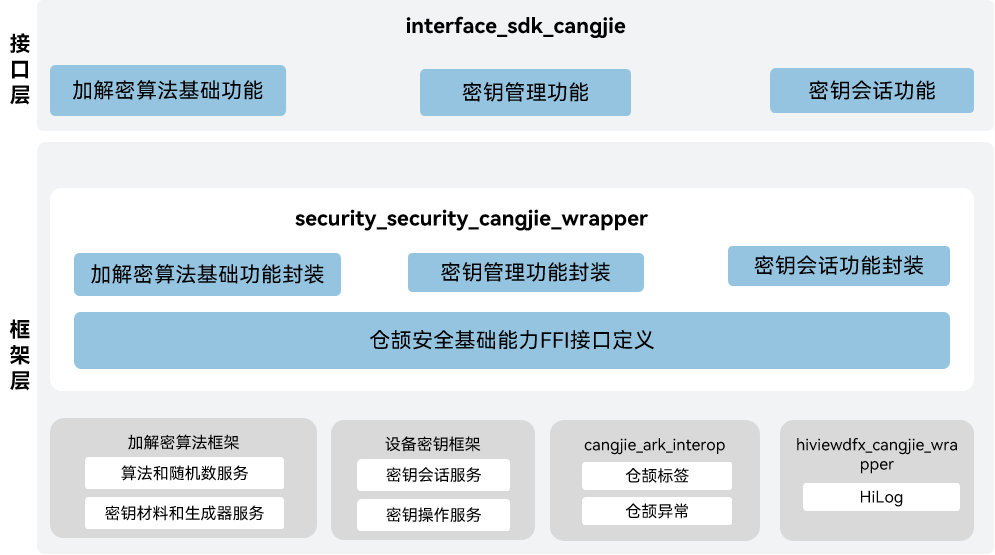
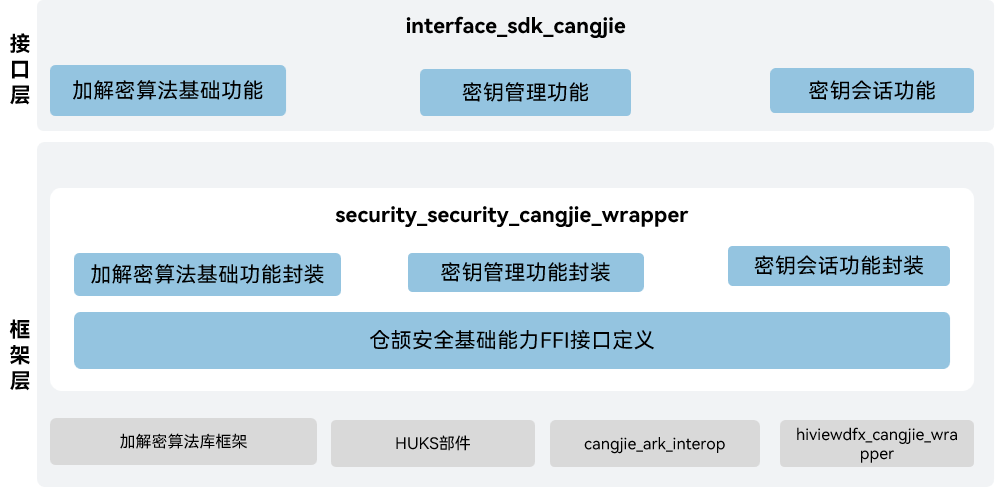
update README

diff --git a/README.md b/README.md
@@ -2,7 +2,7 @@
 
 ## Introduction
 
-The CangJie is a Cangjie API encapsulated on OpenHarmony based on the capabilities of the security subsystem. The security subsystem provides capabilities to protect the system security, data security, and application security of OpenHarmony.
+The security subsystem provides capabilities to protect the system security, data security, and application security of OpenHarmony.
 
 The current supported functions of the security foundation capability Cangjie interface include basic encryption and decryption algorithms, huks management functions, and huks session functions.
 
@@ -15,22 +15,24 @@ The security cangjie interface currently under development only supports standar
 
 As shown in the architecture diagram:
 
-- Basic Crypto Algorithm Functionality: The primary purpose of the basic crypto algorithm functionality is to abstract the underlying hardware and algorithm libraries, providing a unified crypto algorithm interface for upper-layer applications. Its key features include crypto operations, key material and generator management, encryption/decryption, signature/verification, secure random number generation, and related functionalities. By leveraging this capability, developers can ignore the differences among various third-party algorithm libraries, enabling rapid development.
+interface:
 
-- Huks Management Functionality: The huks management functionality is designed to offer a complete, unified, and secure key lifecycle management interface for upper-layer applications, shielding them from the implementation differences of underlying hardware security modules (HSMs) and key management services. Its core operations include key generation and derivation, key storage, key import, key destruction, and other critical processes. By utilizing this functionality, developers can bypass the complexities and security policy variations of different key storage mediums, ensuring the confidentiality, integrity, and availability of key materials. This facilitates secure, reliable, and efficient business development.
+- Crypto Algorithm Interface: The primary purpose of the basic crypto algorithm functionality is to abstract the underlying hardware and algorithm libraries, providing a unified crypto algorithm interface for upper-layer applications. Its key features include crypto operations, key material and generator management, encryption/decryption, signature/verification, secure random number generation, and related functionalities. By leveraging this capability, developers can ignore the differences among various third-party algorithm libraries, enabling rapid development.
+- Huks Management Interface: The huks management functionality is designed to offer a complete, unified, and secure key lifecycle management interface for upper-layer applications, shielding them from the implementation differences of underlying hardware security modules (HSMs) and key management services. Its core operations include key generation and derivation, key storage, key import, key destruction, and other critical processes. By utilizing this functionality, developers can bypass the complexities and security policy variations of different key storage mediums, ensuring the confidentiality, integrity, and availability of key materials. This facilitates secure, reliable, and efficient business development.
+- Huks Session Interface: The huks session functionality is one of the core security capabilities provided by the HUKS system. Built upon a unified key management foundation, its primary goal is to offer upper-layer applications a secure and efficient mechanism for key negotiation and encrypted data communication. HUKS leverages the key session functionality to perform data operations and providesAPIs for developers.
 
-- Huks Session Functionality: The huks session functionality is one of the core security capabilities provided by the HUKS system. Built upon a unified key management foundation, its primary goal is to offer upper-layer applications a secure and efficient mechanism for key negotiation and encrypted data communication. HUKS leverages the key session functionality to perform data operations and provides the following APIs for developers:
+framework:
 
-  initSession: Initialize a huks session.
+- Crypto Algorithm Wrapper: Provides Implementation encapsulation of Cangjie Crypto Algorithm, providing Crypto Algorithm capabilities.
+- Huks Management Wrapper: Provides Implementation encapsulation of Cangjie Huks Management, providing Huks Management capabilities.
+- Huks Session Wrapper: Provides Implementation encapsulation of Cangjie Huks Session, providing Huks Session capabilities.
+- FFI Interface Definition for Cangjie Safebase: Responsible for defining the C Language interoperability Cangjie interface, which is used to realize the Cangjie Safebase capabilities.
 
-  updateSession: Update the session for processing large data in segments.
+- Explanation of Dependencies in the Architecture Diagram:
 
-  finishSession: Finalize the current key operation.
-
-  abortSession: Cancel the ongoing session.
-
+- Crypto Framework: Responsible for providing functions related to encryption and decryption, signature and verification, message authentication codes, hashing, secure random numbers, etc.
+- HUKS: Responsible for providing keystore capabilities, including functions such as key management and cryptographic operations on keys.
 - cangjie_ark_interop: Responsible for providing Cangjie APILevel class definitions, which are used to annotate APIs, as well as providing the definition of BusinessException class that is thrown to users.
-
 - hiviewdfx_cangjie_wrapper: Responsible for providing logging interfaces, which are used to print logs at key points in the execution path.
 
 ## Directory Structure
@@ -59,6 +61,11 @@ The security_cangjie_wrapper provides the following capabilities:
 - Huks Management.
 - Huks Session.
 
+For security APIs, please refer to[Keystore Capability](https://gitcode.com/openharmony-sig/arkcompiler_cangjie_ark_interop/blob/master/doc/API_Reference/source_en/apis/UniversalKeystoreKit/cj-apis-security_huks.md). [Cryptographic Algorithm Library Framework](https://gitcode.com/openharmony-sig/arkcompiler_cangjie_ark_interop/blob/master/doc/API_Reference/source_en/apis/CryptoArchitectureKit/cj-apis-crypto.md).
+For relevation guidance, please refer to [security Development Guide](https://gitcode.com/openharmony-sig/arkcompiler_cangjie_ark_interop/tree/master/doc/Dev_Guide/source_en/security).
+
+## Constraints
+
 Compared to ArkTS, the following features are currently not supporte:
 
 - Program Access Control.
@@ -66,16 +73,13 @@ Compared to ArkTS, the following features are currently not supporte:
 - User Authentication.
 - Crypto Plugin Functionality.
 
-For security APIs, please refer to[Keystore Capability](https://gitcode.com/openharmony-sig/arkcompiler_cangjie_ark_interop/blob/master/doc/API_Reference/source_en/apis/UniversalKeystoreKit/cj-apis-security_huks.md). [Cryptographic Algorithm Library Framework](https://gitcode.com/openharmony-sig/arkcompiler_cangjie_ark_interop/blob/master/doc/API_Reference/source_en/apis/CryptoArchitectureKit/cj-apis-crypto.md).
-For relevation guidance, please refer to [security Development Guide](https://gitcode.com/openharmony-sig/arkcompiler_cangjie_ark_interop/tree/master/doc/Dev_Guide/source_en/security).
-
 ## Code Contribution
 
 Developers are welcome to contribute code, documentation, etc. For specific contribution processes and methods, please refer to [Code Contribution](https://gitcode.com/openharmony/docs/blob/master/en/contribute/code-contribution.md).
 
 ## Repositories Involved
 
-[ark_compiler_cangjie_ark_interop](https://gitcode.com/openharmony-sig/arkcompiler_cangjie_ark_interop)
+[arkcompiler_cangjie_ark_interop](https://gitcode.com/openharmony-sig/arkcompiler_cangjie_ark_interop)
 
 [hiviewdfx_hiviewdfx_cangjie_wrapper](https://gitcode.com/openharmony-sig/hiviewdfx_hiviewdfx_cangjie_wrapper)
 

diff --git a/README_zh.md b/README_zh.md
@@ -1,10 +1,10 @@
-# 安全基础能力仓颉接口
+# 安全基础能力仓颉封装
 
 ## 简介
 
-安全基础能力仓颉接口包括系统安全、数据安全、应用安全等功能，为OpenHarmony提供有效保护应用和用户数据的能力。
+安全基础能力仓颉包括系统安全、数据安全、应用安全等功能，为OpenHarmony提供有效保护应用和用户数据的能力。
 
-安全基础能力仓颉接口当前支持的功能，包括加解密算法基础功能、密钥管理功能、密钥会话功能。
+安全基础能力仓颉当前支持的功能，包括加解密算法基础功能、密钥管理功能、密钥会话功能。
 
 当前开放的安全基础能力仓颉接口仅支持standard设备。
 
@@ -15,9 +15,24 @@
 ![安全基础能力仓颉架构图](figures/security_cangjie_wrapper_architecture.png "安全基础能力仓颉架构图")
 
 如架构图所示：
+
+接口层：
+
 - 加解密算法基础功能：加解密算法基础功能主要是为了屏蔽底层硬件和算法库，向上提供统一的密码算法库加解密相关接口。它的主要功能提供密码操作、秘钥材料和生成器、密码加解密、签名验签、安全随机数等相关功能。开发者可以通过使用该功能，忽略底层不同三方算法库的差异，实现迅捷开发。
 - 密钥管理功能：密钥管理功能主要是为了向上层应用提供一套完整、统一、安全的密钥生命周期管理接口，屏蔽不同硬件安全模块和底层密钥管理服务的实现差异。它的主要功能包括：密钥生成与派生、密钥存储、密钥导入、销毁等一系列关键操作。开发者通过调用该功能，可以忽略底层不同密钥存储介质的复杂细节和安全策略差异，确保密钥材料的机密性、完整性和可用性，从而实现安全、可靠、高效的业务开发。
 - 密钥会话功能：密钥会话功能是HUKS系统提供的核心安全能力之一，它构建在统一的密钥管理基础之上，其主要目的是为上层应用提供一套安全、高效的密钥协商与数据加密通信机制。Huks基于密钥会话功能来操作数据，它提供如下api接口供开发者使用，比如：初始化密钥会话initSession、数据过大需要分段操作密钥数据updateSession、结束此次密钥操作finishSession、取消会话abortSeesion。
+
+框架层：
+
+- 加解密算法基础功能封装：仓颉加解密算法基础功能的实现封装，提供加解密算法基础功能。
+- 密钥管理功能封装：仓颉密钥管理功能的实现封装，提供密钥管理功能。
+- 密钥会话功能封装：仓颉密钥会话功能的实现封装，提供密钥会话功能。
+- 仓颉安全基础能力FFI接口定义：定义C语言互操作仓颉接口，用于实现仓颉安全基础能力。
+
+架构图中的依赖部件引入说明：
+
+- 加解密算法库框架：负责提供加解密、签名验签、消息验证码、哈希、安全随机数等相关功能。
+- HUKS部件：负责提供密钥库能力，包括密钥管理及密钥的密码学操作等功能。
 - cangjie_ark_interop：负责提供仓颉注解类定义，用于对API进行标注，以及提供抛向用户的BusinessException异常类定义。
 - hiviewdfx_cangjie_wrapper：负责提供日志接口，用于在关键路径处打印日志。
 
@@ -42,17 +57,21 @@ base/security/security_cangjie_wrapper
 ## 使用说明
 
 当前安全基础能力仓颉接口提供了以下功能：
+
 - 加解密算法基础功能
 - 密钥管理功能
 - 密钥会话功能
 
+安全基础能力相关API请参见[密钥库能力](https://gitcode.com/openharmony-sig/arkcompiler_cangjie_ark_interop/blob/master/doc/API_Reference/source_zh_cn/apis/UniversalKeystoreKit/cj-apis-security_huks.md)，[加解密算法库框架](https://gitcode.com/openharmony-sig/arkcompiler_cangjie_ark_interop/blob/master/doc/API_Reference/source_zh_cn/apis/CryptoArchitectureKit/cj-apis-crypto.md)，相关指导请参见[安全基础能力开发指南](https://gitcode.com/openharmony-sig/arkcompiler_cangjie_ark_interop/tree/master/doc/Dev_Guide/source_zh_cn/security)。
+
+## 约束
+
 与ArkTS提供的API能力相比，暂不支持以下功能：
+
 - 程序访问控制功能
 - 证书模块
 - 用户认证
 - 密码插件功能
-
-安全基础能力相关API请参见[密钥库能力](https://gitcode.com/openharmony-sig/arkcompiler_cangjie_ark_interop/blob/master/doc/API_Reference/source_zh_cn/apis/UniversalKeystoreKit/cj-apis-security_huks.md)，[加解密算法库框架](https://gitcode.com/openharmony-sig/arkcompiler_cangjie_ark_interop/blob/master/doc/API_Reference/source_zh_cn/apis/CryptoArchitectureKit/cj-apis-crypto.md)，相关指导请参见[安全基础能力开发指南](https://gitcode.com/openharmony-sig/arkcompiler_cangjie_ark_interop/tree/master/doc/Dev_Guide/source_zh_cn/security)。
 
 ## 参与贡献
 
@@ -60,7 +79,7 @@ base/security/security_cangjie_wrapper
 
 ## 相关仓
 
-[ark_compiler_cangjie_ark_interop](https://gitcode.com/openharmony-sig/arkcompiler_cangjie_ark_interop)
+[arkcompiler_cangjie_ark_interop](https://gitcode.com/openharmony-sig/arkcompiler_cangjie_ark_interop)
 
 [hiviewdfx_hiviewdfx_cangjie_wrapper](https://gitcode.com/openharmony-sig/hiviewdfx_hiviewdfx_cangjie_wrapper)
 
